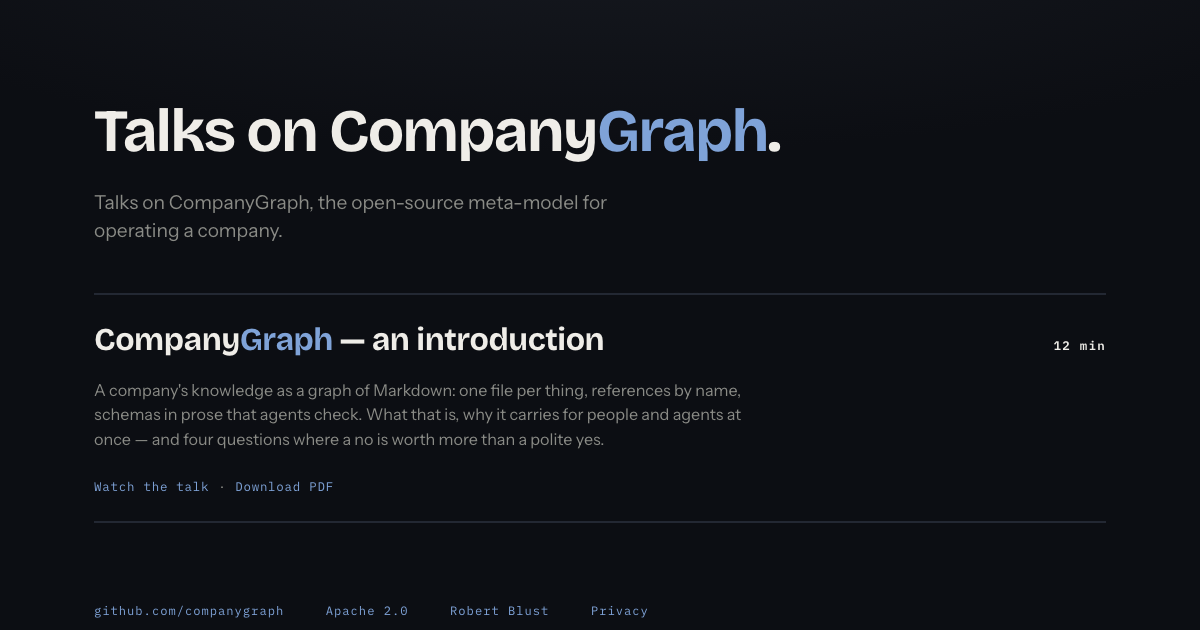
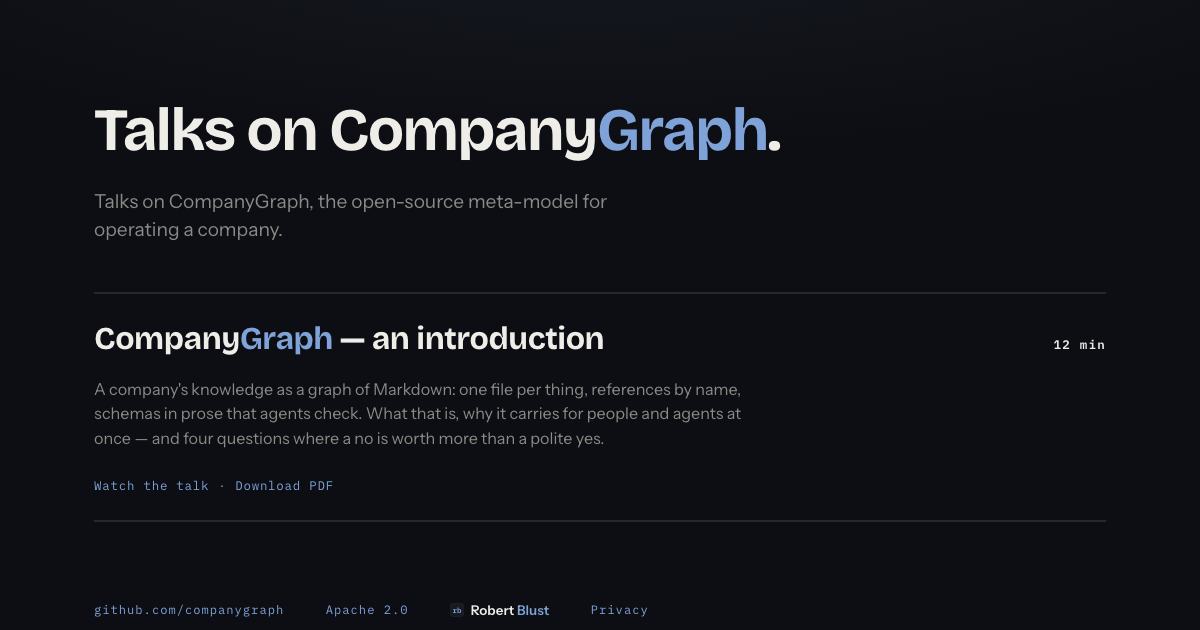
Give the footer credit the brand lockup, and teach the link checks to read German
The `blust.ch` credit in the page footer was plain mono text among the
repository URL and the licence. Mono on these sites means data, and a brand
is not data — it now takes the lockup it has on every deck: the rb plate
inlined, wordmark with the second word in --c-mid. The rest of the row stays
mono, because the rest of the row is data.

The prose mention on the privacy page stays a plain link. A mark belongs in
the footer row, not mid-sentence.

Separately, and the reason this took a second pass: the rendered DOM is only
ever one language. German lives in data-de as markup that does not exist
until a visitor switches, so noNewTab, sameTab, links and internalLinks were
inspecting the English half and nothing else.

The privacy page proves it. Its German credit kept target=_blank — in single
quotes, because it is nested inside an attribute — and survived both a
source-wide strip of the double-quoted form and the check itself. Every
suite was green over a link that opened a new tab for every German visitor.
It was found by reading the source, not by a failing test.

noNewTab now parses every [data-de] value into a template and inspects the
links inside it, reporting them with a [de] suffix. Proven by putting the
German-only attribute back: "must stay in this tab: https://blust.ch/ [de]".
Elements inside a slide are still exempt, in both languages.

diff --git a/privacy/index.html b/privacy/index.html
@@ -156,6 +156,21 @@
          font-family:"Plex Mono",monospace; font-size:.76rem; letter-spacing:.08em; color:var(--dim)}
   footer a{color:var(--c-mid); text-decoration:none}
   footer a:hover, footer a:focus-visible{text-decoration:underline}
+  /* The blust.ch credit is a brand, not a record value, so it leaves the footer's mono and
+     takes the lockup it has on every deck: the rb plate inlined, wordmark with the second
+     word in --c-mid. The rest of the row stays mono because the rest of the row is data —
+     a repository URL and a licence. */
+  footer .credit{display:inline-flex; align-items:center; gap:.5em; vertical-align:-.25em;
+                 font-family:"Instrument Sans", ui-sans-serif, system-ui, sans-serif;
+                 font-size:.84rem; letter-spacing:0; color:var(--ink)}
+  footer .credit .rbmark{display:flex}
+  footer .credit .rbmark svg{width:14px; height:14px; display:block}
+  footer .credit .plate{fill:var(--raise); stroke:var(--rule); stroke-width:1.5}
+  footer .credit .rb{fill:var(--c-mid)}
+  footer .credit b{font-weight:600}
+  footer .credit b em{font-style:normal; color:var(--c-mid)}
+  footer .credit:hover, footer .credit:focus-visible{text-decoration:none}
+  footer .credit:hover b em, footer .credit:focus-visible b em{color:var(--ink)}
   footer a[aria-current="page"]{color:var(--c-firm)}
 
   :focus-visible{outline:2px solid var(--c-mid); outline-offset:3px; border-radius:3px}
@@ -232,7 +247,7 @@
     <section>
       <h2 data-de="Wer das betreibt">Who runs this</h2>
       <div class="rules">
-        <p data-de="CompanyGraph wird von <a href='https://blust.ch/' target='_blank' rel='noopener'>Robert Blust</a> gebaut. Es ist keine Firma: eine Person, die offen arbeitet, mit dem Meta-Modell unter Apache 2.0 für alle, die nachlesen wollen, was es tatsächlich behauptet.">CompanyGraph is built by <a href="https://blust.ch/">Robert Blust</a>. It is not a company: one person, working in the open, with the meta-model under Apache 2.0 for anyone who wants to read what it actually claims.</p>
+        <p data-de="CompanyGraph wird von <a href='https://blust.ch/'>Robert Blust</a> gebaut. Es ist keine Firma: eine Person, die offen arbeitet, mit dem Meta-Modell unter Apache 2.0 für alle, die nachlesen wollen, was es tatsächlich behauptet.">CompanyGraph is built by <a href="https://blust.ch/">Robert Blust</a>. It is not a company: one person, working in the open, with the meta-model under Apache 2.0 for anyone who wants to read what it actually claims.</p>
         <p data-de="Ein Impressum gibt es noch nicht, und das ist eine Abwägung, kein Versäumnis. Beratung steht auf der <a href='../billing/'>Abrechnungsseite</a>, verkauft wird hier aber nichts: kein Satz, keine Bestellung, keine Zahlung, kein Konto — es gibt also kein Geschäft, zu dem ein Impressum gehören würde. Sollte es je ein erstes Mandat geben, kommt es dann — auf einer eigenen Seite, denn ein Impressum ist kein Datenschutzhinweis.">There is no imprint yet, and that is a judgement rather than an oversight. Consulting is described on the <a href="../billing/">billing page</a>, but nothing is sold here: no rate, no order, no payment and no account on this site, so there is no transaction for an imprint to belong to. If there is ever a first engagement it arrives then — name, address and contact — on a page of its own, because an imprint is not a privacy note.</p>
       </div>
     </section>
@@ -243,7 +258,7 @@
   <footer>
     <span><a href="https://github.com/companygraph">github.com/companygraph</a></span>
     <span><a href="https://github.com/companygraph/meta-model/blob/HEAD/LICENSE">Apache 2.0</a></span>
-    <span><a href="https://blust.ch/">Robert Blust</a></span>
+    <span><a class="credit" href="https://blust.ch/"><span class="rbmark"><svg viewBox="0 0 32 32" aria-hidden="true"><rect class="plate" x=".75" y=".75" width="30.5" height="30.5" rx="7"/><text class="rb" x="16" y="22.5" text-anchor="middle" font-family="Plex Mono, ui-monospace, SFMono-Regular, Menlo, monospace" font-size="17" font-weight="600">rb</text></svg></span><b>Robert <em>Blust</em></b></a></span>
     <span><a href="./" aria-current="page" data-de="Datenschutz">Privacy</a></span>
   </footer>
 </div>

diff --git a/index.html b/index.html
@@ -76,6 +76,21 @@
          font-family:"Plex Mono",monospace; font-size:.76rem; letter-spacing:.08em; color:var(--dim)}
   footer a{color:var(--c-mid); text-decoration:none}
   footer a:hover, footer a:focus-visible{text-decoration:underline}
+  /* The blust.ch credit is a brand, not a record value, so it leaves the footer's mono and
+     takes the lockup it has on every deck: the rb plate inlined, wordmark with the second
+     word in --c-mid. The rest of the row stays mono because the rest of the row is data —
+     a repository URL and a licence. */
+  footer .credit{display:inline-flex; align-items:center; gap:.5em; vertical-align:-.25em;
+                 font-family:"Instrument Sans", ui-sans-serif, system-ui, sans-serif;
+                 font-size:.84rem; letter-spacing:0; color:var(--ink)}
+  footer .credit .rbmark{display:flex}
+  footer .credit .rbmark svg{width:14px; height:14px; display:block}
+  footer .credit .plate{fill:var(--raise); stroke:var(--rule); stroke-width:1.5}
+  footer .credit .rb{fill:var(--c-mid)}
+  footer .credit b{font-weight:600}
+  footer .credit b em{font-style:normal; color:var(--c-mid)}
+  footer .credit:hover, footer .credit:focus-visible{text-decoration:none}
+  footer .credit:hover b em, footer .credit:focus-visible b em{color:var(--ink)}
   .hero{flex:1 1 500px; max-width:640px; container-type:inline-size}
   /* One axis carries the argument: the setup arrives light and unresolved, the shape it
      lands on arrives heavy. em marks the resolved word itself. */
@@ -266,7 +281,7 @@
   <footer>
     <span><a href="https://github.com/companygraph">github.com/companygraph</a></span>
     <span><a href="https://github.com/companygraph/meta-model/blob/HEAD/LICENSE">Apache 2.0</a></span>
-    <span><a href="https://blust.ch/">Robert Blust</a></span>
+    <span><a class="credit" href="https://blust.ch/"><span class="rbmark"><svg viewBox="0 0 32 32" aria-hidden="true"><rect class="plate" x=".75" y=".75" width="30.5" height="30.5" rx="7"/><text class="rb" x="16" y="22.5" text-anchor="middle" font-family="Plex Mono, ui-monospace, SFMono-Regular, Menlo, monospace" font-size="17" font-weight="600">rb</text></svg></span><b>Robert <em>Blust</em></b></a></span>
     <span><a href="privacy/" data-de="Datenschutz">Privacy</a></span>
   </footer>
 </div>

diff --git a/billing/index.html b/billing/index.html
@@ -160,6 +160,21 @@
          font-family:"Plex Mono",monospace; font-size:.76rem; letter-spacing:.08em; color:var(--dim)}
   footer a{color:var(--c-mid); text-decoration:none}
   footer a:hover, footer a:focus-visible{text-decoration:underline}
+  /* The blust.ch credit is a brand, not a record value, so it leaves the footer's mono and
+     takes the lockup it has on every deck: the rb plate inlined, wordmark with the second
+     word in --c-mid. The rest of the row stays mono because the rest of the row is data —
+     a repository URL and a licence. */
+  footer .credit{display:inline-flex; align-items:center; gap:.5em; vertical-align:-.25em;
+                 font-family:"Instrument Sans", ui-sans-serif, system-ui, sans-serif;
+                 font-size:.84rem; letter-spacing:0; color:var(--ink)}
+  footer .credit .rbmark{display:flex}
+  footer .credit .rbmark svg{width:14px; height:14px; display:block}
+  footer .credit .plate{fill:var(--raise); stroke:var(--rule); stroke-width:1.5}
+  footer .credit .rb{fill:var(--c-mid)}
+  footer .credit b{font-weight:600}
+  footer .credit b em{font-style:normal; color:var(--c-mid)}
+  footer .credit:hover, footer .credit:focus-visible{text-decoration:none}
+  footer .credit:hover b em, footer .credit:focus-visible b em{color:var(--ink)}
 
   :focus-visible{outline:2px solid var(--c-mid); outline-offset:3px; border-radius:3px}
 
@@ -254,7 +269,7 @@
   <footer>
     <span><a href="https://github.com/companygraph">github.com/companygraph</a></span>
     <span><a href="https://github.com/companygraph/meta-model/blob/HEAD/LICENSE">Apache 2.0</a></span>
-    <span><a href="https://blust.ch/">Robert Blust</a></span>
+    <span><a class="credit" href="https://blust.ch/"><span class="rbmark"><svg viewBox="0 0 32 32" aria-hidden="true"><rect class="plate" x=".75" y=".75" width="30.5" height="30.5" rx="7"/><text class="rb" x="16" y="22.5" text-anchor="middle" font-family="Plex Mono, ui-monospace, SFMono-Regular, Menlo, monospace" font-size="17" font-weight="600">rb</text></svg></span><b>Robert <em>Blust</em></b></a></span>
     <span><a href="../privacy/" data-de="Datenschutz">Privacy</a></span>
   </footer>
 </div>

diff --git a/talks/index.html b/talks/index.html
@@ -118,6 +118,21 @@
          font-family:"Plex Mono",monospace; font-size:.76rem; letter-spacing:.08em; color:var(--dim)}
   footer a{color:var(--c-mid); text-decoration:none}
   footer a:hover, footer a:focus-visible{text-decoration:underline}
+  /* The blust.ch credit is a brand, not a record value, so it leaves the footer's mono and
+     takes the lockup it has on every deck: the rb plate inlined, wordmark with the second
+     word in --c-mid. The rest of the row stays mono because the rest of the row is data —
+     a repository URL and a licence. */
+  footer .credit{display:inline-flex; align-items:center; gap:.5em; vertical-align:-.25em;
+                 font-family:"Instrument Sans", ui-sans-serif, system-ui, sans-serif;
+                 font-size:.84rem; letter-spacing:0; color:var(--ink)}
+  footer .credit .rbmark{display:flex}
+  footer .credit .rbmark svg{width:14px; height:14px; display:block}
+  footer .credit .plate{fill:var(--raise); stroke:var(--rule); stroke-width:1.5}
+  footer .credit .rb{fill:var(--c-mid)}
+  footer .credit b{font-weight:600}
+  footer .credit b em{font-style:normal; color:var(--c-mid)}
+  footer .credit:hover, footer .credit:focus-visible{text-decoration:none}
+  footer .credit:hover b em, footer .credit:focus-visible b em{color:var(--ink)}
 
   :focus-visible{outline:2px solid var(--c-mid); outline-offset:3px; border-radius:3px}
 
@@ -181,7 +196,7 @@
   <footer>
     <span><a href="https://github.com/companygraph">github.com/companygraph</a></span>
     <span><a href="https://github.com/companygraph/meta-model/blob/HEAD/LICENSE">Apache 2.0</a></span>
-    <span><a href="https://blust.ch/">Robert Blust</a></span>
+    <span><a class="credit" href="https://blust.ch/"><span class="rbmark"><svg viewBox="0 0 32 32" aria-hidden="true"><rect class="plate" x=".75" y=".75" width="30.5" height="30.5" rx="7"/><text class="rb" x="16" y="22.5" text-anchor="middle" font-family="Plex Mono, ui-monospace, SFMono-Regular, Menlo, monospace" font-size="17" font-weight="600">rb</text></svg></span><b>Robert <em>Blust</em></b></a></span>
     <span><a href="../privacy/" data-de="Datenschutz">Privacy</a></span>
   </footer>
 </div>

diff --git a/CLAUDE.md b/CLAUDE.md
@@ -313,6 +313,18 @@ requirements implicitly include this section.
   repository, as this one does. Do not edit it here.
   `verify/design.mjs` is byte-identical across all of them and is never edited in this repo.
 - **No type count, no type list read aloud, and no status claim that ages — name the plan, never the status.** Slide 10 says what would make the model usable and links to the roadmap for what exists. A slide may say what the project intends to build; it never says what it has built, because the deck is the one medium that cannot be edited cheaply.
+- **The `blust.ch` credit in the page footer is a lockup, not a footer link.** It leaves the
+  footer's mono for the same treatment it has on every deck — the `rb` plate inlined, wordmark
+  with the second word in `--c-mid`. The rest of the row stays mono because the rest of the row
+  is data: a repository URL and a licence. A prose mention of the name inside a sentence stays
+  a plain link — the mark belongs in the footer row, not mid-paragraph.
+- **A link check that trusts the DOM inspects half the site.** The rendered DOM is only ever
+  one language; German lives in `data-de` as markup that does not exist until a visitor
+  switches. The privacy page's German credit kept `target='_blank'` — in single quotes, because
+  it is nested inside an attribute — and survived both a source-wide strip and the check.
+  `noNewTab` now parses every `[data-de]` value and reports what it finds with a `[de]` suffix;
+  any new link check must do the same. A translated link and its English original are two
+  separate attributes and nothing pairs them.
 - **Never claim "no hallucinations".** The claim is that the model shrinks the space in which
   an agent has to guess.
 - **Never print an environment variable's value**, and never use `${VAR:-UNSET}` — it prints
